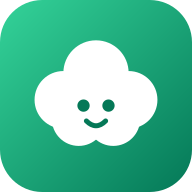
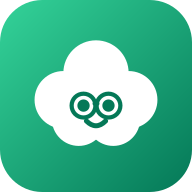
El brócoli ahora usa lentes (mascota e ícono) y link nuevo en el README
Claude-Session: https://claude.ai/code/session_01778MfouyxbgDrk4pFyrYCz

Changed region(s): [[0.3438, 0.4688, 0.6562, 0.625]]

diff --git a/index.html b/index.html
@@ -4,7 +4,7 @@
 <meta charset="utf-8">
 <meta name="viewport" content="width=device-width,initial-scale=1,viewport-fit=cover">
 <meta name="theme-color" content="#f3f5f4">
-<meta name="nutri-version" content="23">
+<meta name="nutri-version" content="24">
 <link rel="manifest" href="manifest.json">
 <link rel="icon" href="icons/icon-192.png">
 <link rel="apple-touch-icon" href="icons/apple-touch-icon.png">
@@ -399,6 +399,9 @@ html[data-time="night"] .progress{background:#243029}
 html[data-time="night"] .summaryline{border-color:var(--line)}
 html[data-time="night"] .nutri-toast{background:#eef5f1;color:#0c1a14}
 html[data-time="night"] .row-item.tap:active,html[data-time="night"] .meal-row:active{background:#1d2823}
+.mascot-svg .ms-glasses{transform-box:fill-box;transform-origin:50% 50%}
+.mascot-svg.mood-celebrate .ms-glasses,.mascot-svg.poked .ms-glasses{animation:msGlasses .9s ease-in-out infinite}
+@keyframes msGlasses{0%,100%{transform:translateY(0)}40%{transform:translateY(-3px)}}
 </style>
 </head>
 <body>
@@ -511,6 +514,14 @@ function mascotSVG(size = 64, mood = 'idle', extraClass = '') {
       <path d="M74 110 Q82 100 90 110"/><path d="M110 110 Q118 100 126 110"/>
     </g>
     <path class="ms-wink" d="M110 109 Q118 101 126 109" fill="none" stroke="#10241a" stroke-width="4.5" stroke-linecap="round"/>
+    <g class="ms-glasses">
+      <circle cx="82" cy="107" r="15.5" fill="#fff" fill-opacity=".18" stroke="#10241a" stroke-width="4"/>
+      <circle cx="118" cy="107" r="15.5" fill="#fff" fill-opacity=".18" stroke="#10241a" stroke-width="4"/>
+      <path d="M96.5 104 Q100 100 103.5 104" fill="none" stroke="#10241a" stroke-width="4" stroke-linecap="round"/>
+      <path d="M66.8 103 L57 98 M133.2 103 L143 98" fill="none" stroke="#10241a" stroke-width="4" stroke-linecap="round"/>
+      <path d="M74 99 Q78 95 83 95" fill="none" stroke="#fff" stroke-opacity=".7" stroke-width="2.5" stroke-linecap="round"/>
+      <path d="M110 99 Q114 95 119 95" fill="none" stroke="#fff" stroke-opacity=".7" stroke-width="2.5" stroke-linecap="round"/>
+    </g>
     <path class="ms-smile" d="M89 126 Q100 137 111 126" fill="none" stroke="#10241a" stroke-width="4" stroke-linecap="round"/>
     <path class="ms-open" d="M88 125 Q100 144 112 125 Z" fill="#10241a"/>
   </g>
@@ -540,6 +551,7 @@ function logoMarkSVG(size = 40) {
     <circle cx="41" cy="62" r="14"/><circle cx="59" cy="62" r="14"/><rect x="34" y="46" width="32" height="26" rx="10"/>
   </g>
   <g fill="#047857"><circle cx="43.5" cy="55" r="3.2"/><circle cx="56.5" cy="55" r="3.2"/></g>
+  <g fill="none" stroke="#047857" stroke-width="2.2" stroke-linecap="round"><circle cx="43.5" cy="55" r="6.2"/><circle cx="56.5" cy="55" r="6.2"/><path d="M49.3 54 Q50 53 50.7 54"/></g>
   <path d="M45 63 Q50 68 55 63" fill="none" stroke="#047857" stroke-width="2.6" stroke-linecap="round"/>
 </svg>`;
 }

diff --git a/sw.js b/sw.js
@@ -5,7 +5,7 @@
 // Los archivos estáticos (íconos, manifest) sí se cachean para que la app abra rápido
 // y funcione aunque no haya internet en ese instante (aunque sin poder sincronizar datos).
 
-const CACHE_NAME = 'nutri-static-v2';
+const CACHE_NAME = 'nutri-static-v3';
 const STATIC_ASSETS = [
   './manifest.json',
   './icons/icon-192.png',

diff --git a/README.md b/README.md
@@ -1,6 +1,6 @@
 # Nutri — app de nutrición y fitness con IA
 
-**App publicada:** https://nutri-app-sage-sigma.vercel.app
+**App publicada:** https://hola-nutri.vercel.app
 
 ## Qué cambió respecto a la versión anterior
 - **Cuentas y datos en la nube (Supabase)**: antes todo vivía en el navegador del teléfono
